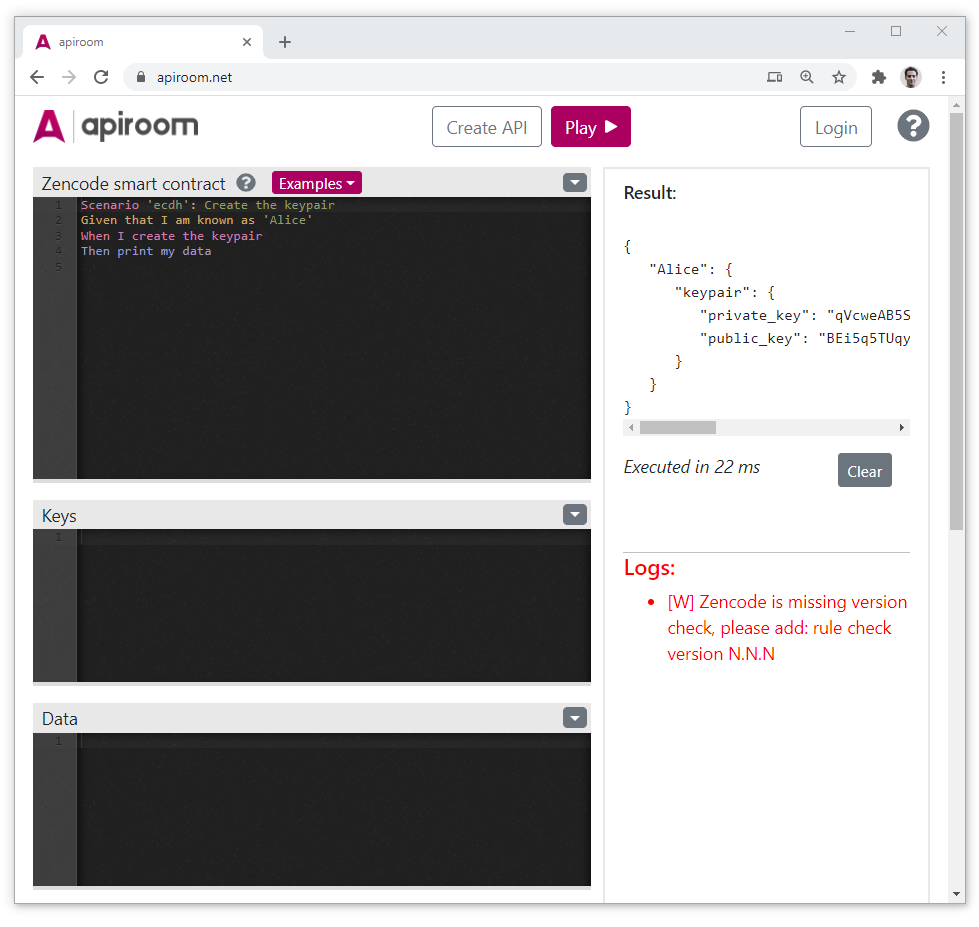
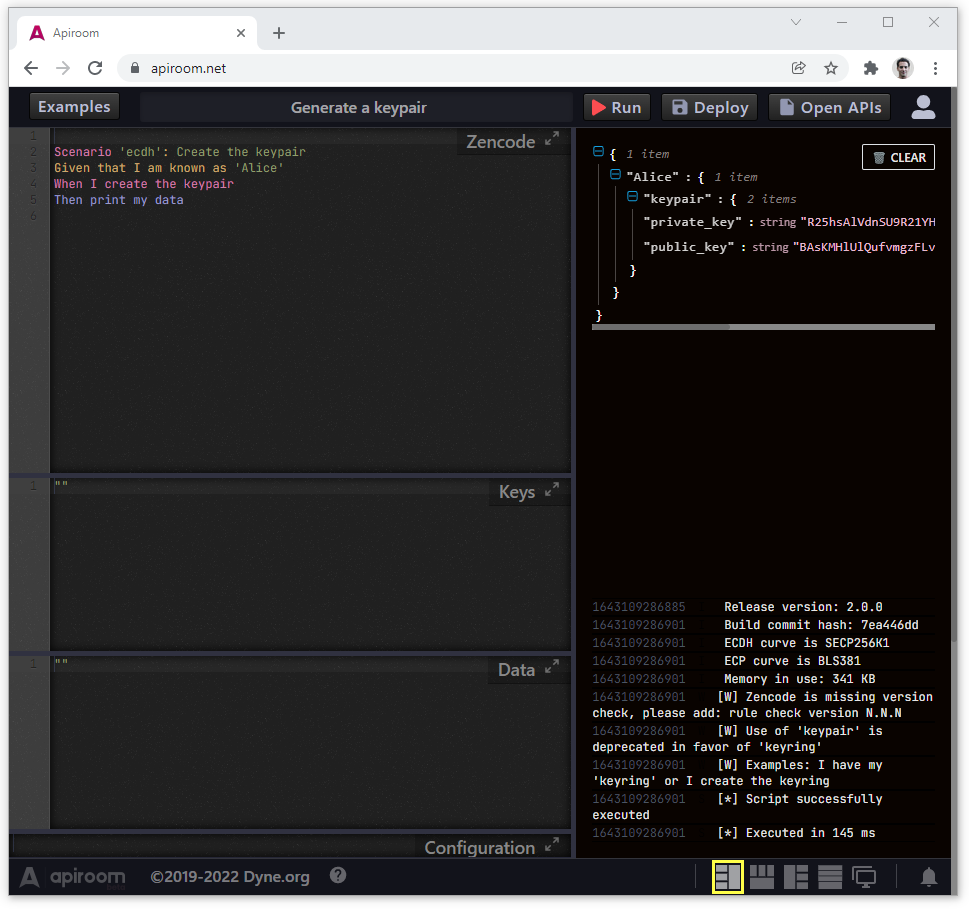
updated Apiroom manual to V2

diff --git a/docs/pages/apiroom.md b/docs/pages/apiroom.md
@@ -13,7 +13,7 @@ This is the user manual of Zenroom's web playground [Apiroom](https://apiroom.ne
 
  - A [Zencode](/pages/zencode-intro) editor, equipped with auto-complete and syntax highlight
  - An in-the-browser Zenroom instance: you can use the editor to test your smart contracts and run them inside your browser window
- - An instance of [RESTroom-mw](/pages/restroom-mw) that enables you to create an API from a Zencode smart contract with one click
+ - An instance of [Restroom-mw](/pages/restroom-mw) that enables you to create an API from a Zencode smart contract with one click
  - An instance of [Swagger ](https://swagger.io/) that you can use to test and debug the APIs you created
 
 # Getting started
@@ -24,14 +24,14 @@ When landing on [Apiroom](https://apiroom.net) you're prompted with its front-en
 - The text boxes **Keys** and **Data**: use them to pass different kind of data to Zenroom, as you would do with the parameters **-k** and **-a** respectively from the command line application
  - The **Examples** drop-down menu fills the text boxes with sample Zencode smart contracts
 - The text box named **Config**: use it to pass [configuration](/pages/zenroom-config) files to Zenroom (in the front end only)
-- The **PLAY▶** button: use it to execute the smart contracts, along with the keys and data you provided
+- The **Run ▶** button: use it to execute the smart contracts, along with the keys and data you provided
 - An output box shows the output of the Zencode smart contract you executed
 
 And also:
 
-- The **Create API** button saves your smart contract and create an API from it (you need to be logged in to use it)
+<!-- - The **💾 Deploy** button saves your smart contract and create an API from it (you need to be logged in to use it) -->
 - The **Login** button allows you to login and create an account
-- Once logged in, the **My Contracts** button is used to check, test and debug the APIs created from your Zencode smart contracts
+<!-- - Once logged in, the **Open APIs** button is used to check, test and debug the APIs created from your Zencode smart contracts -->
 
 ![ApiroomShots](../_media/images/apiroom/Shot1.png)
 
@@ -43,20 +43,22 @@ Press the **Examples** drop-down menu, and click on *Generate a keypair*
 
 ## Running a script 
 
-After that, press the **PLAY▶** button, and you should be presented with an [ecdh keypair](/pages/zencode-scenarios-ecdh?id=generate-a-keypair) in the **Result** box, looking like this:
+After that, press the **Run▶** button, and you should be presented with an [ecdh keypair](/pages/zencode-scenarios-ecdh?id=generate-a-keypair) in the **Result** box, looking like this:
 
 ![ApiroomShots](../_media/images/apiroom/Shot4.png)
 
 
 # The auto-complete function
 
-Now, in the **Zencode smart contract** text box, try and type *When I*: the auto-complete should be triggered, prompting you a window like this:
+Now, in the **Zencode smart contract** text box, try and type *random*: the auto-complete should be triggered, prompting you a window like this:
 
 ![ApiroomShots](../_media/images/apiroom/Shot5Autocomplete.png)
 
 ## Mastering the auto-complete
 
-In the auto-complete window you can scroll up and down, and by clicking or pressing enter, the selected line will be inserted. The lines inserted will typically include a *dummy object name*, which some times will work straight of the box (like the example highlighted in the screenshot) but more often will need some adjustment. For example, the second statement from top:
+The auto-complete window is based on the [Ace editor](https://ace.c9.io/), it allows you to scroll up and down with keyboard arrows, and by clicking or pressing enter, the selected line will be inserted. 
+A smart way to use it is to **think of a function** (e.g. **hash**, **random**, **print** or anything you find in the Zencode manual) and let the auto-complete find all the relevant statements for your. 
+The lines inserted will typically include a *dummy object name*, which some times will work straight of the box (like the example highlighted in the screenshot) but more often will need some adjustment. For example, the second statement from top:
 
 ```gherkin
 When I create the 'nameOfNewObject'
@@ -85,46 +87,84 @@ Followed by *scenario 'petition'* printed in a different color: this part indica
 
 The syntax highlight does not perform a syntax check, it's only there to help you read the Zencode smart contract easily, namely to help you make sure you are using the **Given**, **When** and **Then** statements as they should, in the right order.
 
+# Deploy: turn a smart contract into a REST API
+
+If you aren't yet logged in, you can see the button **Login** (you'll need to register an account for that). After Signing up and logging in, you will be able to see **💾 Deploy** button, along with the **🗋 Open APIs** button
 
 
-# Check your APIs: Apiroom's back-end
+Press the **💾 Deploy** button to save it as an API:
 
-If you aren't yet logged in, you can see the button **Login**. After logging in, you will be able to see **Create API** button, by pressing it you are prompted with a list of your saves Zencode smart contracts, turned into APIs: 
+![ApiroomShots](../_media/images/apiroom/Shot6Deploy.png)
+
+# A smart contract just turned into an API?
+
+The smart contract you have just saved under the name **My Fancy Smart Contract** is now deployed on Apiroom on the endpoint: 
+
+https://apiroom.net/api/YourUserName/My-Fancy-Smart-Contract
+
+
+The easiest way to explain this is by demonstrating it, just click on the link [https://apiroom.net/api/dyneorg/Create-a-keypair](https://apiroom.net/api/dyneorg/Create-a-keypair) and you should see something like this: 
+
+![ApiroomShots](../_media/images/apiroom/Shot7BKeypair.png)
+
+If you refresh the page, you will get every time a new keypair. The keypair is being generated on Apiroom's server by [Restroom-mw](https://dyne.github.io/restroom-mw/#/) and you can call the API with a POST. 
+
+**IMPORTANT**: what you stored in **Data** in the front-end editor is stored here for reference only and ***will not be loaded as the smart-contract is exposed to an API in Restroom-mw***, so if the smart contract you are trying to use needs something inside **Data** to run, the output will be an error (more about this later).
+
+
+# Check your APIs: Apiroom's right hand sidebar 
+
+If you aren't yet logged in, you can see the button **Login** (you'll need to register an account for that). After logging in, you will be able to see **💾 Deploy** button, along with the **🗋 Open APIs** button. 
+
+By pressing **💾 Deploy** you are prompted with a pop-up asking you the name you want to give to the API, turned into APIs: 
+
 
 ![ApiroomShots](../_media/images/apiroom/Shot7LinkApi.png)
 
 
-Here we see: 
+Here we see a list of all your deployed smart contracts. By clicking on it you can open and edit it in the editor. 
 
-- Under **Zencode smart contract** you read the name of the smart contract and the API. By clicking on it you can edit the Zencode of the smart contract and by hovering with your mouse you can edit the whole smart contract in the front-end editor, or delete it.
-- The three columns **Keys (-k)**, **Config (-c)** and **Data (-d)**: under them you have the respective keys, config and data, saved in the front-end editor. 
-- A column with a **ON-OFF** toggle button: that turns on and off the API.
-- When the **ON-OFF** button is on, you have a **Link** clickable link, that takes you straight the the API. 
+In this side pane you also see:
 
-In the top right you see the buttons: 
+- A **checkbox** next to the name, that you can use to **Export** one or more smart contracts (more on this below)
+- The toolbox ⚒ button, this will allow you to **Clone**, **Rename** or **Delete** the smart contract
+- The link 🔗 button, this will open the endpoint of the API 
+- An **On/Off** checkbox: this turns on and off the API. When turn-ed off, the API will not be deployed (nor you can test it in Swagger (more on this below), you can turn it back on at a later point.
+
+In the top of this pane you see the buttons: 
 - **Export**: it exports the ticked smart contracts and builds a *Dockerfile* along with the software needed to run them, so you can deploy your service wherever you want (currently in beta).
 - **Test APIs**: this will bring to a [Swagger](https://swagger.io/) instance, where you can test and debug your APIs.
 
 **IMPORTANT**: take a mental note of the smart contract **Encrypt message with password** as we'll be giving a deeper look at it in a minute. That comes straight from the smart contract **Encrypt a message using a password** from the examples of the front-end editor. 
 
 
-## Difference between *Keys* and *Data* in the back-end
+## IMPORTANT (I): Difference between *Keys* and *Data* in a deployed smart contract
 
-This is a very **important** point, so pay attention: the Data you saved in the front-end editor is stored here for reference only and ***will not be loaded as the smart-contract is exposed to an API in RESTroom-mw*** (more about this in a minute). 
+This is a very **important** point, so pay attention: the Data you saved in the front-end editor is stored here for reference only and ***will not be loaded as the smart-contract is exposed to an API in Restroom-mw*** (more about this in a minute). 
+On the other hand, what you store in **Keys** will be read at each execution. This implies two important things:
 
-# A smart contract just turned into an API?
+* If you saved something into **Data** that the smart contract needs to run, **the API will return an error**.
+* What you have saved in **Keys** will be sort of *hardcoded* in the API execution. Therefore you typically want to save in **Keys** information that you do no expect to pass to the API via POST, such as keys and some endpoints
 
-The easiest way to explain this is by demonstrating it, just click on the link [https://apiroom.net/api/dyneorg/Create-a-keypair](https://apiroom.net/api/dyneorg/Create-a-keypair) and you should see something like this: 
 
-![ApiroomShots](../_media/images/apiroom/Shot7BKeypair.png)
 
-If you refresh the page, you will get every time a new keypair. The keypair is being generated on Apiroom's server by [RESTroom-mw](https://dyne.github.io/restroom-mw/#/) and you can call the API with a REST call. 
+## IMPORTANT (II): running smart contract that use the Restroom-mw statements
 
-**IMPORTANT**: the Data you saved in the front-end editor is stored here for reference only and ***will not be loaded as the smart-contract is exposed to an API in RESTroom-mw***, so if the smart contract you are trying to use needs something inside Data to run, the output will be an error. In order to test and debug all of this, [Swagger ](https://swagger.io/) comes to help.
+Zenroom itself is an isolated virtual machine, meaning it has no access too the file system or the network.
+[Restroom-mw](https://dyne.github.io/restroom-mw/#/) extends Zenroom's capabilities by introducing Zencode statements that let the smart contract interact with the outside world, doing things like querying an API, passing Zenroom's output to an API, storing data on a database or a blockchain. This features comes with an important caveat:
+
+* The smart contracts using **Restroom-mw** extensions, will only read data passed in **Keys** also when running the smart contract in the front-end (by pressing the **Run▶** button. 
+
+In order to use **Restroom-mw** statements, the smart contract needs to have in its beginning the enabling statement :
+
+	Rule caller restroom-mw
+
+All the examples in the group **[R]Restroom-mw** will have this statement on top. For this reason, all these examples are only using the **Keys** field: we took this precaution to make your life easier, but keep in mind that you want to have control over what you store in **Keys** (which will be "hardcoded") or in **Data** (which you expect to pass to the API via POST).
+
 
 # Testing and debugging an API
 
-If you press the **Test APIs** button you land on something like this: 
+If you press the **Test APIs** button in the top right of the APIs pane, you land on something like this: 
 
 ![ApiroomShots](../_media/images/apiroom/Shot8Swagger.png)
 
@@ -139,7 +179,15 @@ The reason is, the smart contract is missing a string (it is actually missing tw
 ![ApiroomShots](../_media/images/apiroom/Shot8bSwagger.png)
 
 What you want to do now, is
-- Fill the **data** in text box with the strings that the smart contract is expecting, in JSON, which you can again check in the **Encrypt a message using a password** example in the front-end editor, 
+- Fill the **data** in text box with the strings that the smart contract is expecting, in JSON, which you can again check in the **Encrypt a message using a password** example in the front-end editor, so with: 
+
+```json
+{
+	"header": "A very important secret",
+	"message": "Dear Bob, your name is too short, goodbye - Alice."
+}
+```
+
 - Leave the **keys** part empty, because the content of that will be read by the keys stored in the Apiroom's back-end.
 
 The result should look like this (don't mind the formatting, as long as it's JSON it will work): 
@@ -188,8 +236,8 @@ You can obviously also use the APIs exposed in Apiroom in your web/mobile applic
 After you're happy with the APIs you've prototyped and you're ready for a real deployment, in the back-end of Apiroom you can **select some smart contracts and export them** to:
 
 - A **Dockerfile** 
-- A shell script that will **install RESTroom-mw and the APIs**
-- Just download **smart contracts**, which you can use in Zenroom or RESTroom-mw, along with the keys and data you have saved
+- A shell script that will **install Restroom-mw and the APIs**
+- Just download **smart contracts**, which you can use in Zenroom or Restroom-mw, along with the keys and data you have saved
  
 
 ![ApiroomShots](../_media/images/apiroom/ApiroomExportToDocker.png)
@@ -199,7 +247,7 @@ After you're happy with the APIs you've prototyped and you're ready for a real d
 You can export your APIs to a **Dockerfile** that will:
  
  - Create a Docker image 
- - Clone and configure [RESTroom-mw](https://dyne.github.io/restroom-mw/#/) 
+ - Clone and configure [Restroom-mw](https://dyne.github.io/restroom-mw/#/) 
  - Save there the contracts that you have selected 
 
 To create the **Dockerfile**, select the contracts you want have running in the microservice then clic on "Export Docker"
@@ -209,23 +257,17 @@ To create the **Dockerfile**, select the contracts you want have running in the 
 
 The **Dockerfile** contains the:
  - The ports used by the Docker image 
- - The config of [RESTroom-mw](https://dyne.github.io/restroom-mw/#/), meaning the ports (which should match with the ports used by the Docker image) and the folder where the contracts and keys/data are saved. Those are stored in the **.env** file inside the **/restroom-mw** folder of the Docker image
+ - The config of [Restroom-mw](https://dyne.github.io/restroom-mw/#/), meaning the ports (which should match with the ports used by the Docker image) and the folder where the contracts and keys/data are saved. Those are stored in the **.env** file inside the **/restroom-mw** folder of the Docker image
  
 They are contained in those lines, that can be edited manually: 
 
 ```bash
-# setup docker
-WORKDIR /restroom-mw
-EXPOSE 3300 
-EXPOSE 3301 
-
-# Adding the .env file
-RUN touch .env
-RUN echo 'ZENCODE_DIR=/restroom-mw/zencode\n\
-CUSTOM_404_MESSAGE=nothing to see here\n\
-HTTP_PORT=3300\n\
-HTTPS_PORT=3301\n'\
-> /restroom-mw/.env
+# Configure restroom
+ENV ZENCODE_DIR=/restroom-mw/zencode
+ENV CUSTOM_404_MESSAGE="nothing to see here"
+ENV HTTP_PORT=3300
+ENV HTTPS_PORT=3301
+ENV OPENAPI=true
 ```
 
 ### Build and run the Docker image 
@@ -247,14 +289,14 @@ If everything worked fine, by going to **http://localhost:3300/docs** you should
 
 ![ApiroomShots](../_media/images/apiroom/RestroommwSwagger.png)
 
-## Export APIs to a RESTroom-mw instance
+## Export APIs to a Restroom-mw instance
 
 If you select the Export -> **script to setup...**, Apiroom will generate a shell script, that will:
 
-- Install **RESTroom-mw**
-- Copy a default **.env file** in the RESTroom-mw instance
-- Copy the **smart contracts/APIs** in the RESTroom-mw instance
-- Give you instructions on **how to build and launch** RESTroom-mw 
+- Install **Restroom-mw**
+- Copy a default **.env file** in the Restroom-mw instance
+- Copy the **smart contracts/APIs** in the Restroom-mw instance
+- Give you instructions on **how to build and launch** Restroom-mw 
 
 You want to use this option if you want to have the APIs on a non-containerized server. 
 
